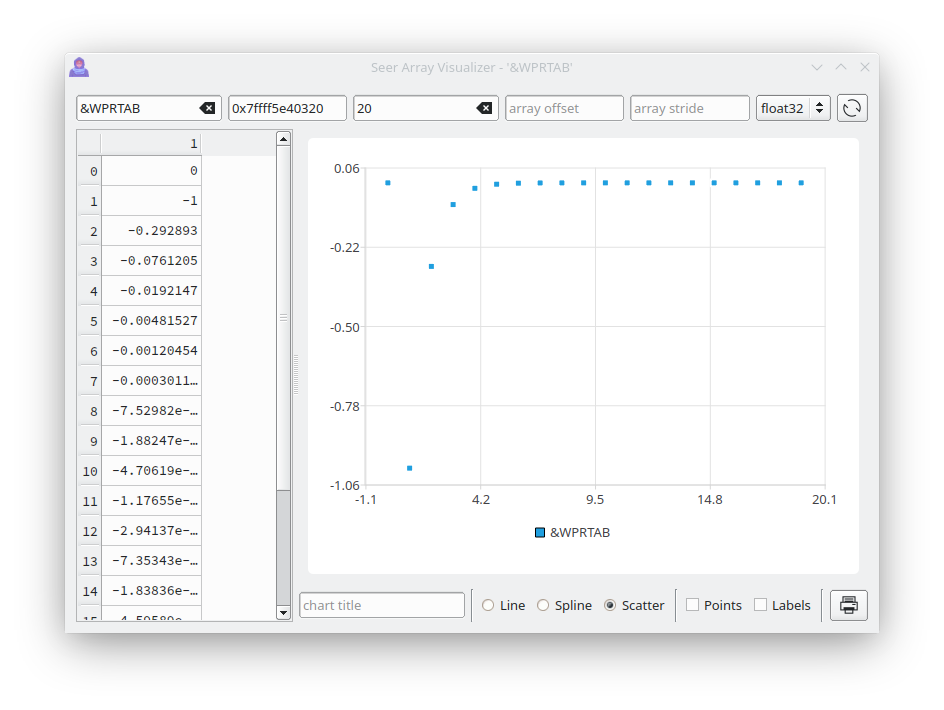
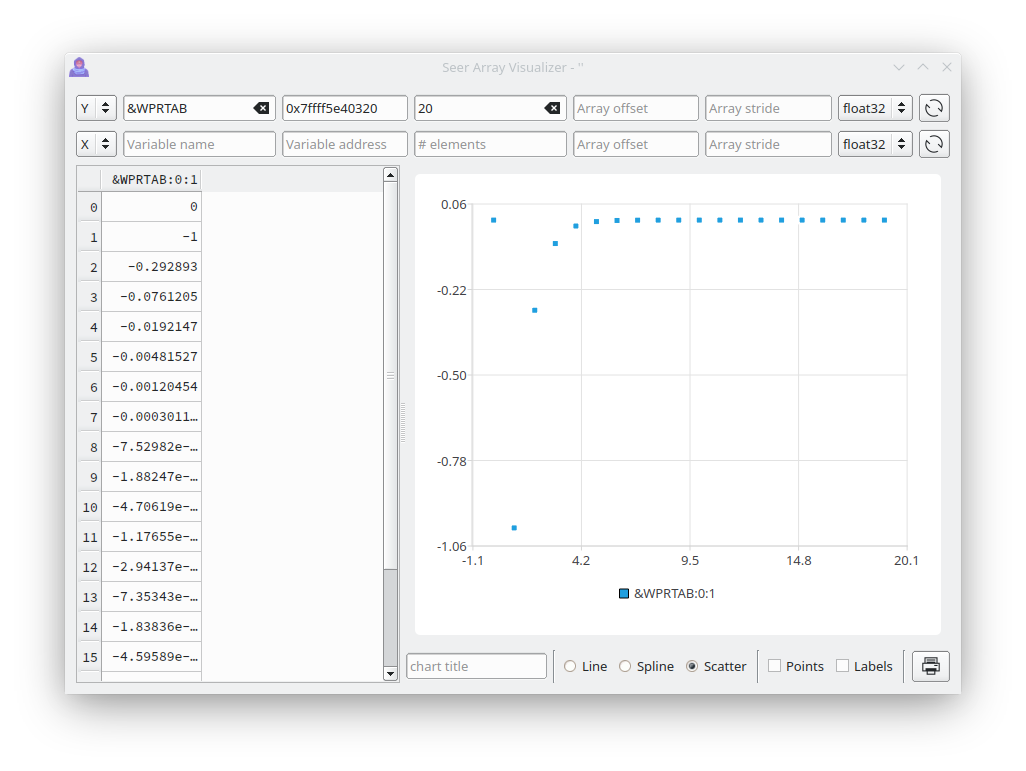
Show examples for improved Array Visualizer.

diff --git a/README.md b/README.md
@@ -120,6 +120,18 @@ Normal | Spline | Scatter
 --- | --- | ---
 ![](images/arrayvisualizer.png) | ![](images/arrayvisualizer_spline.png) | ![](images/arrayvisualizer_scatter.png)
 
+Two arrays can be used as an X-Y plot. For example, this simple arrays forms the X-Y outline of a shape.
+```
+    int main() {
+        int points[] = {50,1,20,91,97,35,2,35,79,91,50,1};
+        return 0;
+    }
+```
+
+X values | Y values | XY Values
+--- | --- | ---
+![](images/arrayvisualizer_x.png) | ![](images/arrayvisualizer_y.png) | ![](images/arrayvisualizer_xy.png)
+
 
 Starting Seer
 =============
